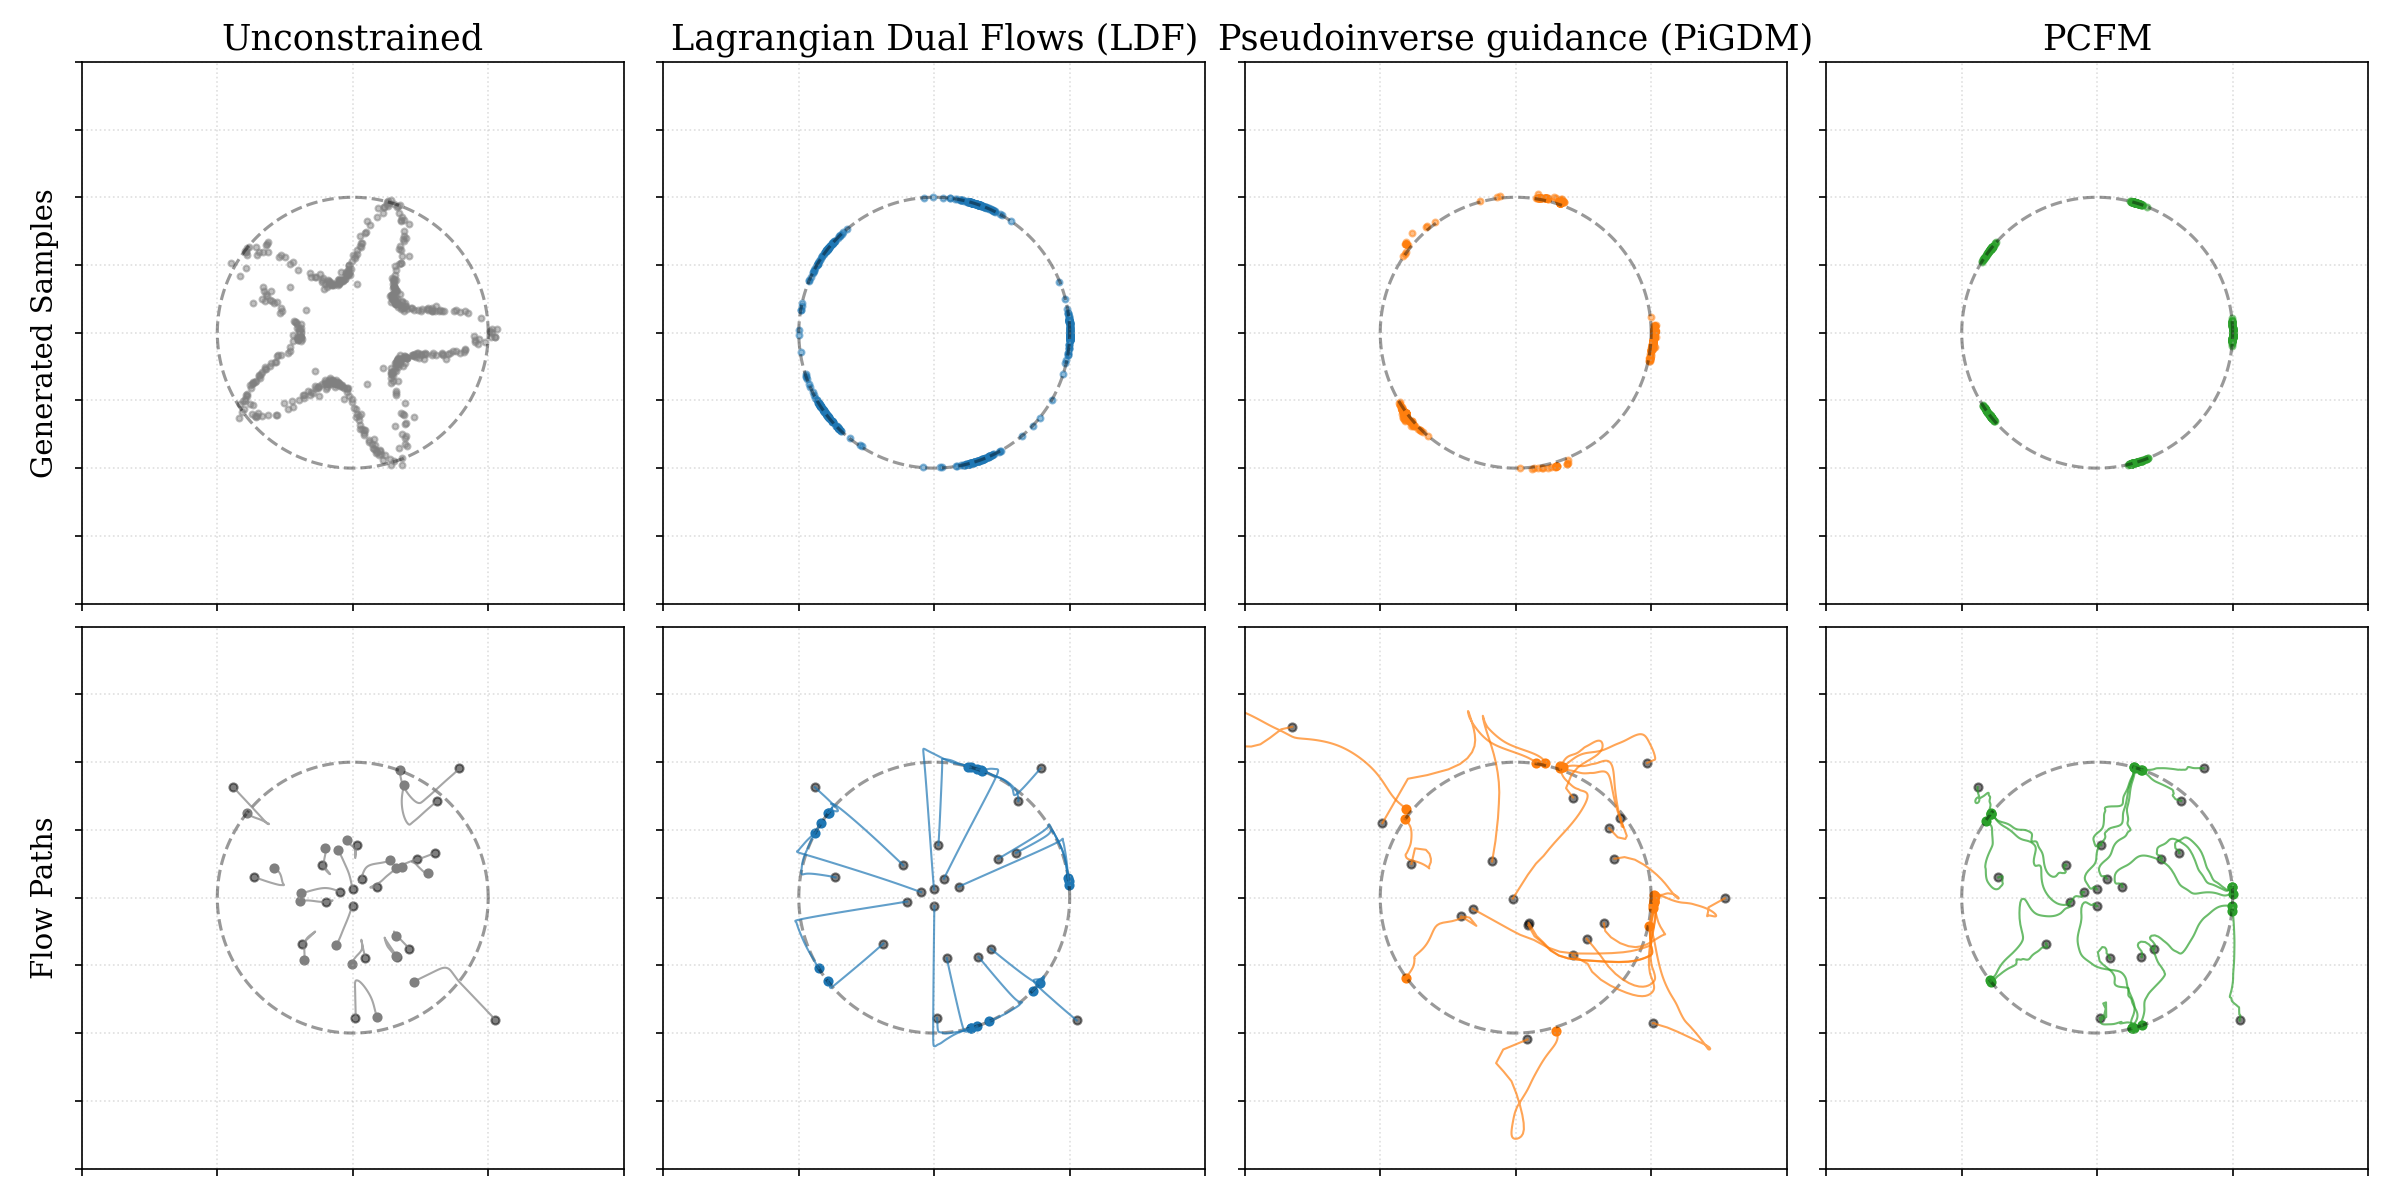
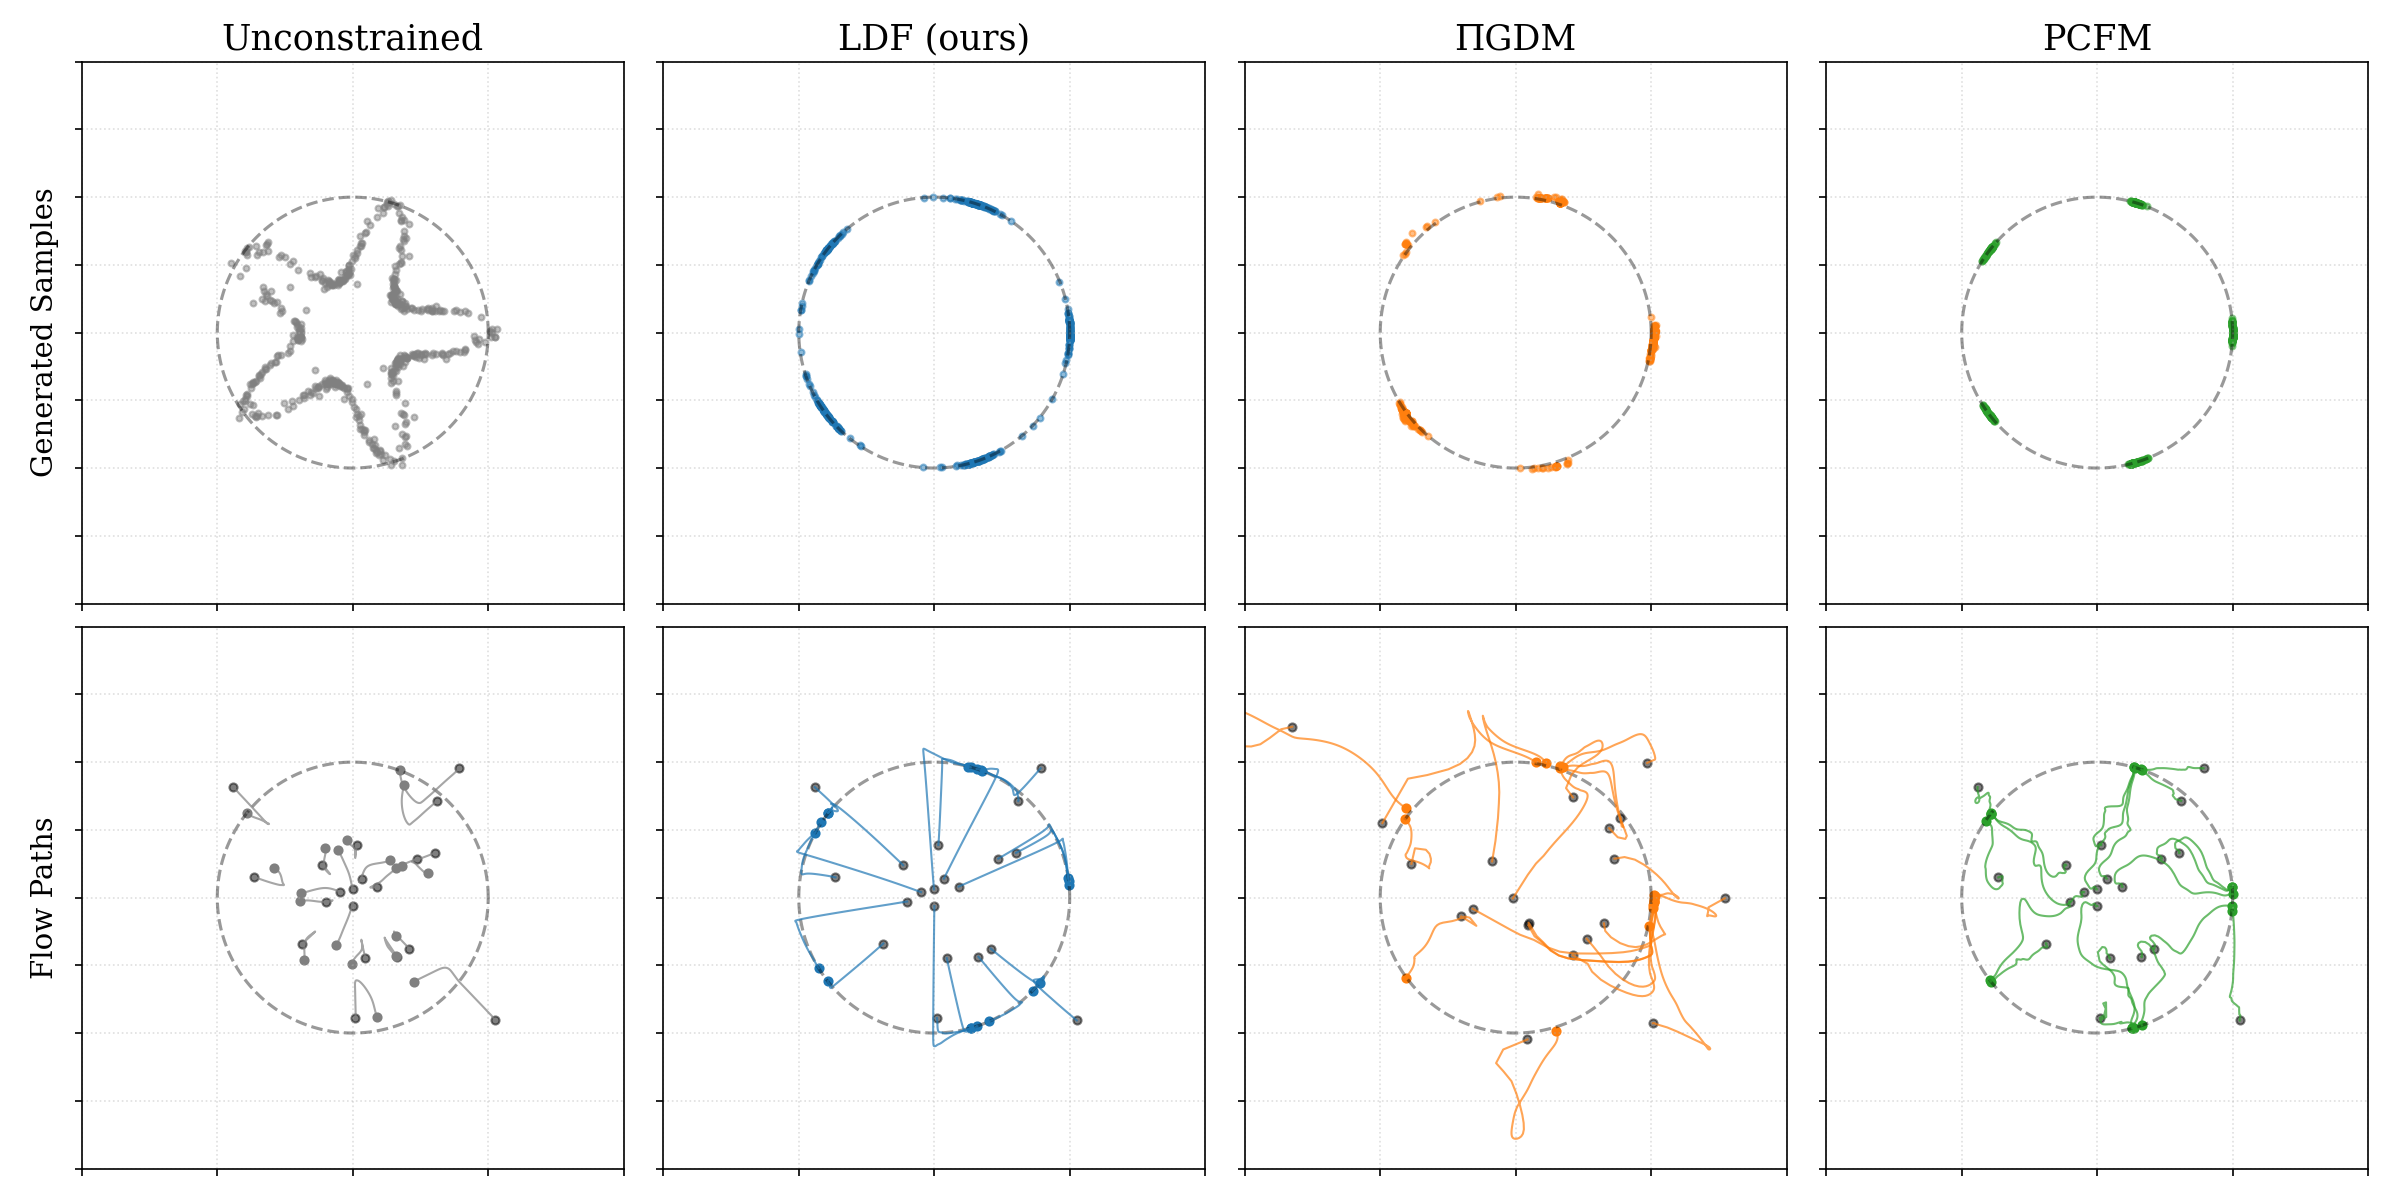
update method names for Fig. 2

Changed region(s): [[0.2812, 0.0, 0.75, 0.0617], [0.0, 0.185, 0.0312, 0.2158]]

diff --git a/cfm/methods/__init__.py b/cfm/methods/__init__.py
@@ -83,7 +83,7 @@ _LDF_DEFAULTS = {
 
 LDF = Method(
     name="ldf",
-    label="Lagrangian Dual Flows (LDF)",
+    label="LDF (ours)",
     generate=ldf.generate,
     supports=BOTH,
     defaults=dict(_LDF_DEFAULTS),
@@ -121,7 +121,7 @@ PCFM = Method(
 
 PIGDM = Method(
     name="pigdm",
-    label="Pseudoinverse guidance (PiGDM)",
+    label="ΠGDM",
     generate=pigdm.generate,
     supports=frozenset({EQUALITY}),
     defaults={"guidance_scale": 1.0, "eps_reg": 1e-4},
